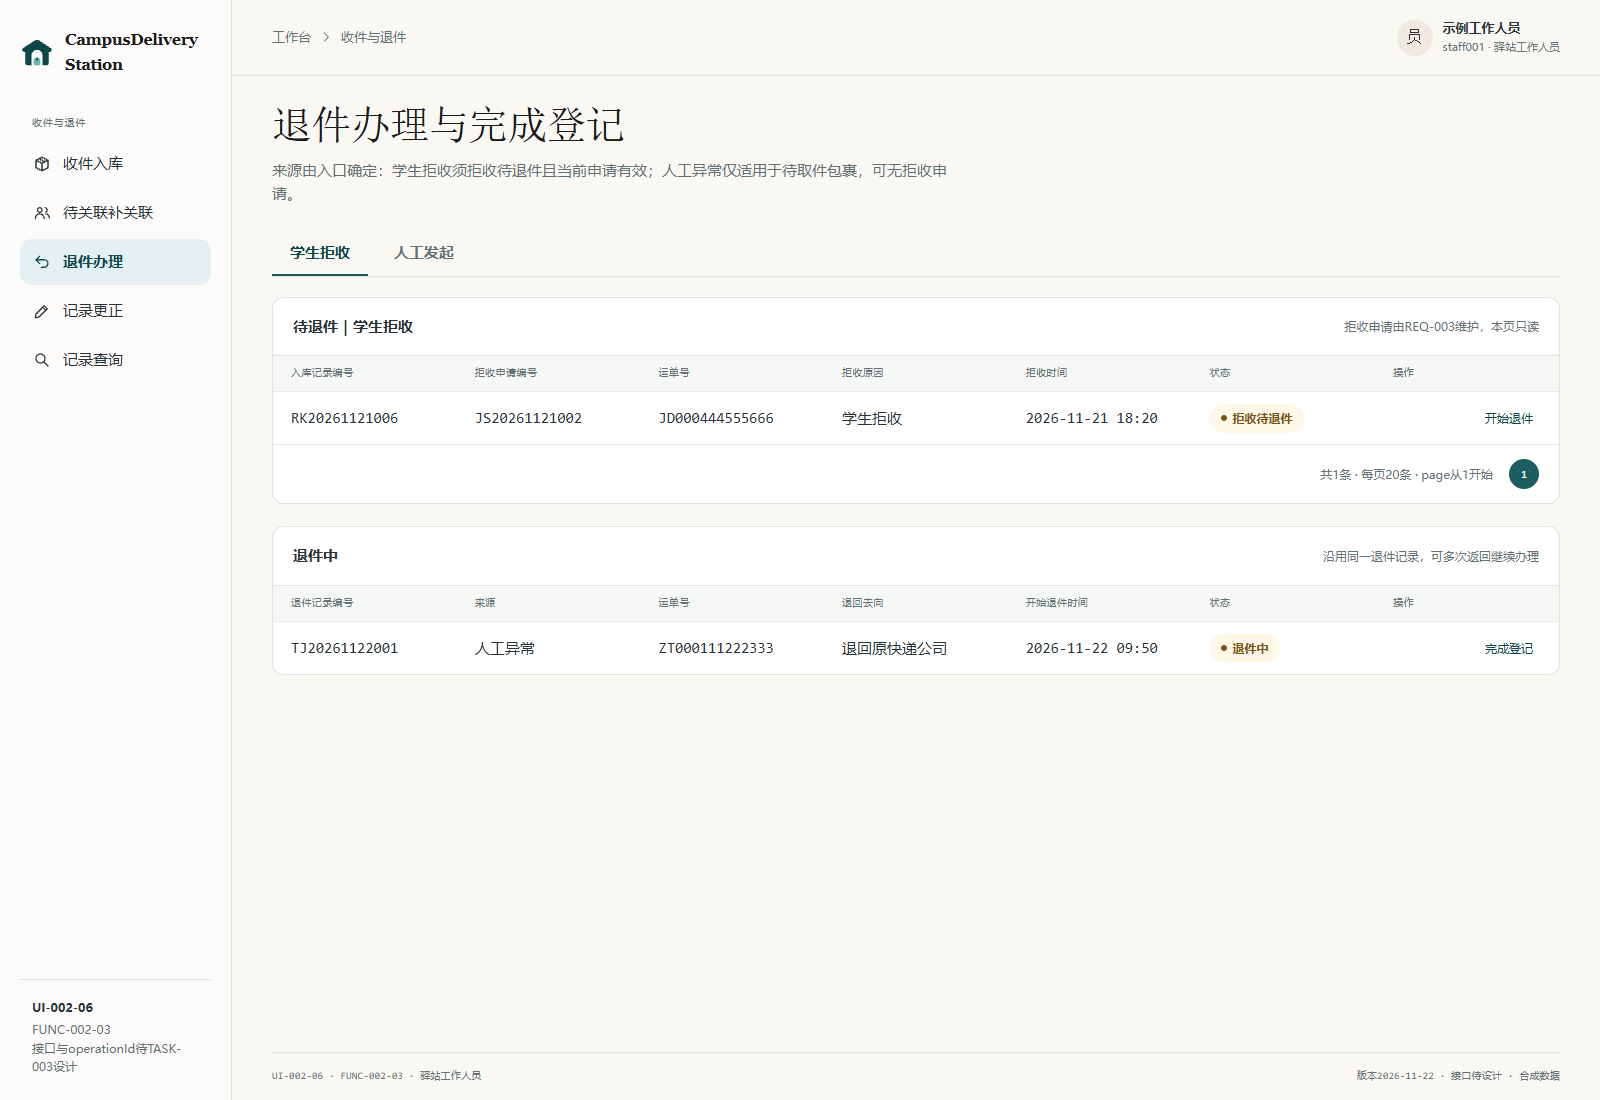
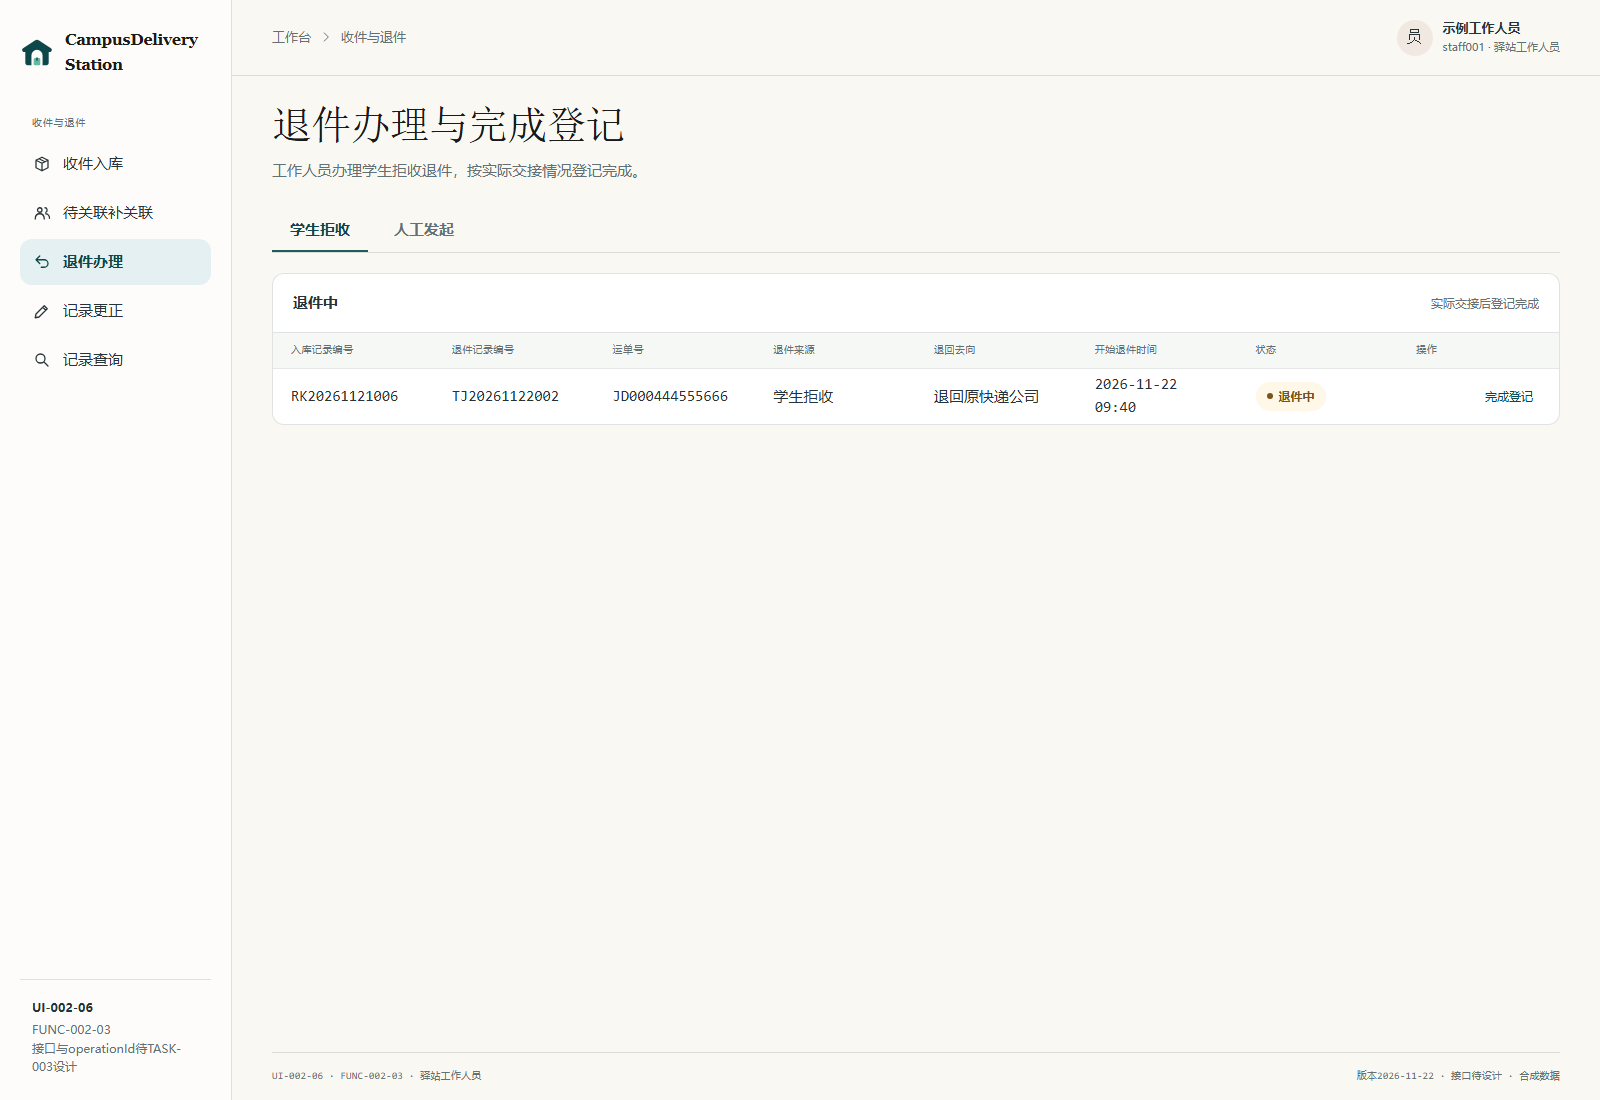
doc(prototype):补齐REQ-002学生拒收退件原型

diff --git a/docs/requirements/prototypes/任奕阳_REQ-002/prototype.js b/docs/requirements/prototypes/任奕阳_REQ-002/prototype.js
@@ -27,6 +27,10 @@ const locations = ["A-1", "A-2", "A-3", "B-1", "B-2", "B-3", "C-1", "C-2", "C-3"
 const student = { account: "00120001", name: "示例学生", phone: "13800000001" };
 const otherStudent = { account: "00120002", name: "示例学生乙", phone: "13900000009" };
 const intakeAccounts = [student, otherStudent];
+const returnDemo = {
+  recordId: "RK20261121006", refusalId: "JS20261121002", refusedAt: "2026-11-21 18:20",
+  returnId: "TJ20261122002", startedAt: "2026-11-22 09:40", finishedAt: "2026-11-22 10:30"
+};
 const intakeExample = {
   id: "RK20261122003", company: "圆通速递", tracking: "YT000555666777", receiver: student.name,
   phone: student.phone, location: "B-2", status: "待取件", account: student.account,
@@ -39,9 +43,8 @@ const initialRecords = [
     correction: { field: "存放位置名称", operator: "示例工作人员", at: "2026-11-22 09:30" }
   },
   {
-    id: "RK20261121006", company: "京东快递", tracking: "JD000444555666", receiver: student.name,
-    phone: student.phone, location: "B-1", status: "退件中", account: student.account, arrivedAt: "2026-11-21 16:02",
-    returnInfo: { id: "TJ20261122002", source: "学生拒收", reason: "学生拒收", destination: "退回原快递公司", startedAt: "2026-11-22 09:40" }
+    id: returnDemo.recordId, company: "京东快递", tracking: "JD000444555666", receiver: student.name,
+    phone: student.phone, location: "B-1", status: "拒收待退件", account: student.account, arrivedAt: "2026-11-21 16:02"
   },
   {
     id: "RK20261122002", company: "京东快递", tracking: "JD000987654321", receiver: student.name,
@@ -290,47 +293,50 @@ function linkingPage(mismatch) {
 }
 
 /* FUNC-002-03 退件 */
-function returnList() {
+function returnList(record) {
   return `<div class="table-scroll"><table class="data-table">
     <thead><tr><th>入库记录编号</th><th>拒收申请编号</th><th>运单号</th><th>拒收原因</th><th>拒收时间</th><th>状态</th><th>操作</th></tr></thead>
-    <tbody><tr><td class="mono">RK20261121006</td><td class="mono">JS20261121002</td><td class="mono">JD000444555666</td><td>学生拒收</td><td class="mono">2026-11-21 18:20</td><td><span class="status-badge warning">拒收待退件</span></td><td><div class="row-actions"><button class="button-text" type="button" data-route="return-start">开始退件</button></div></td></tr></tbody>
+    <tbody><tr><td class="mono">${record.id}</td><td class="mono">${returnDemo.refusalId}</td><td class="mono">${record.tracking}</td><td>学生拒收</td><td class="mono">${returnDemo.refusedAt}</td><td><span class="status-badge warning">${record.status}</span></td><td><div class="row-actions"><button class="button-text" type="button" data-route="return-start">开始退件</button></div></td></tr></tbody>
   </table></div>${pagination(1)}`;
 }
 
-function inReturnList(record) {
-  const returnInfo = record?.returnInfo ?? {
-    id: "TJ20261122001", source: "人工异常", destination: "退回原快递公司", startedAt: "2026-11-22 09:50"
-  };
-  const recordAttribute = record ? ` data-record-id="${record.id}"` : "";
+function returnProgressList(record) {
+  const { returnInfo } = record;
+  const finished = record.status === "已退件";
+  const lastCell = finished ? `<td class="mono">${returnInfo.finishedAt}</td>` :
+    `<td><div class="row-actions"><button class="button-text" type="button" data-action="finish-return" data-record-id="${record.id}">完成登记</button></div></td>`;
   return `<div class="table-scroll"><table class="data-table">
-    <thead><tr><th>退件记录编号</th><th>来源</th><th>运单号</th><th>退回去向</th><th>开始退件时间</th><th>状态</th><th>操作</th></tr></thead>
-    <tbody><tr><td class="mono">${returnInfo.id}</td><td>${returnInfo.source}</td><td class="mono">${escapeHtml(record?.tracking ?? "ZT000111222333")}</td>
-      <td>${returnInfo.destination}</td><td class="mono">${returnInfo.startedAt}</td><td><span class="status-badge warning">退件中</span></td>
-      <td><div class="row-actions"><button class="button-text" type="button" data-action="finish-return"${recordAttribute}>完成登记</button></div></td></tr></tbody>
+    <thead><tr><th>入库记录编号</th><th>退件记录编号</th><th>运单号</th><th>退件来源</th><th>退回去向</th><th>开始退件时间</th><th>状态</th><th>${finished ? "完成时间" : "操作"}</th></tr></thead>
+    <tbody><tr><td class="mono">${record.id}</td><td class="mono">${returnInfo.id}</td><td class="mono">${escapeHtml(record.tracking)}</td><td>${returnInfo.source}</td>
+      <td>${returnInfo.destination}</td><td class="mono">${returnInfo.startedAt}</td><td><span class="status-badge ${finished ? "neutral" : "warning"}">${record.status}</span></td>${lastCell}</tr></tbody>
   </table></div>`;
 }
 
 function returnsPage(record, requestedRecordId) {
   if (requestedRecordId) {
-    const canContinue = record?.status === "退件中" && record.returnInfo;
+    const returnInfo = record?.returnInfo;
     const back = `<button class="button button-secondary" type="button" data-route="${record ? `record-detail/${record.id}` : "records"}">${record ? "返回记录详情" : "返回记录查询"}</button>`;
-    return pageHeading(pages.returns, canContinue ? `继续办理入库记录${record.id}的退件。` : "该记录当前没有可继续办理的退件。", back) +
-      (canContinue ? `<section class="list-card"><div class="list-toolbar"><strong>退件中</strong></div>${inReturnList(record)}</section>` : "");
+    return pageHeading(pages.returns, returnInfo ? `入库记录${record.id}的退件办理。` : "该记录当前没有可继续办理的退件。", back) +
+      (returnInfo ? `<section class="list-card"><div class="list-toolbar"><strong>${record.status}</strong>${record.status === "退件中" ? '<span class="list-count">实际交接后登记完成</span>' : ""}</div>${returnProgressList(record)}</section>` : "");
   }
-  return pageHeading(pages.returns, "来源由入口确定：学生拒收须拒收待退件且当前申请有效；人工异常仅适用于待取件包裹，可无拒收申请。") +
+  const sample = findRecord(returnDemo.recordId);
+  const pending = sample.status === "拒收待退件";
+  const hint = pending ? "核对包裹实物和退件原因后开始办理" : sample.status === "退件中" ? "实际交接后登记完成" : "已记录退件完成时间";
+  const list = demoState === "normal" ? (pending ? returnList(sample) : returnProgressList(sample)) : listStateBlock("没有符合条件的退件记录。");
+  return pageHeading(pages.returns, "工作人员办理学生拒收退件，按实际交接情况登记完成。") +
     `<div class="tabs" role="tablist" aria-label="退件发起入口"><button class="tab" role="tab" aria-selected="true" type="button">学生拒收</button><button class="tab" role="tab" aria-selected="false" type="button" data-route="return-manual">人工发起</button></div>
-    <section class="list-card"><div class="list-toolbar"><strong>待退件｜学生拒收</strong><span class="list-count">拒收申请由REQ-003维护，本页只读</span></div>${demoState === "normal" ? returnList() : listStateBlock("没有符合条件的待退件包裹。")}</section>
-    <div style="height:22px"></div>
-    <section class="list-card"><div class="list-toolbar"><strong>退件中</strong><span class="list-count">沿用同一退件记录，可多次返回继续办理</span></div>${inReturnList()}</section>`;
+    <section class="list-card"><div class="list-toolbar"><strong>${sample.status}</strong><span class="list-count">${hint}</span></div>${list}</section>`;
 }
 
 function returnStartPage() {
-  const drawer = `<div class="overlay"></div><aside class="drawer" role="dialog" aria-modal="true" aria-labelledby="return-title">
-    <div class="drawer-header"><div><h2 id="return-title">开始退件</h2><span class="function-tag">入库记录RK20261121006（DATA-002-01）</span></div><button class="icon-button" type="button" data-route="returns" aria-label="关闭">${icon("close")}</button></div>
+  const record = findRecord(returnDemo.recordId);
+  if (record.status !== "拒收待退件") return returnsPage();
+  const drawer = `<div class="overlay"></div><aside class="drawer return-start-drawer" role="dialog" aria-modal="true" aria-labelledby="return-title">
+    <div class="drawer-header"><div><h2 id="return-title">开始退件</h2><span class="function-tag">入库记录${record.id}（DATA-002-01）</span></div><button class="icon-button" type="button" data-route="returns" aria-label="关闭">${icon("close")}</button></div>
     <div class="drawer-body">
-      <dl class="detail-grid"><div><dt>退件来源（DATA-002-29）</dt><dd>学生拒收 · 系统按入口确定</dd></div><div><dt>当前拒收申请（DATA-003-10）</dt><dd class="mono">JS20261121002</dd></div><div><dt>包裹状态（DATA-003-05）</dt><dd>拒收待退件</dd></div><div><dt>运单号</dt><dd class="mono">JD000444555666</dd></div></dl>
+      <dl class="detail-grid"><div><dt>退件来源（DATA-002-29）</dt><dd>学生拒收 · 系统按入口确定</dd></div><div><dt>当前拒收申请（DATA-003-10）</dt><dd class="mono">${returnDemo.refusalId}</dd></div><div><dt>包裹状态（DATA-003-05）</dt><dd>${record.status}</dd></div><div><dt>运单号</dt><dd class="mono">${record.tracking}</dd></div></dl>
       <div class="info-card warning"><p>办理前核对包裹实物、收件信息与退件原因；不一致时先按记录更正办理。开始退件后学生不可撤回。</p></div>
-      <form id="return-form" data-tracking="JD000444555666" novalidate>
+      <form id="return-form" data-record-id="${record.id}" data-tracking="${record.tracking}" novalidate>
         ${field("退件原因", "DATA-002-30 · 学生拒收来源默认学生拒收，可按实际改选", `<select name="reason" id="return-reason"><option>学生拒收</option><option>包装破损</option><option>面单信息不全或污损</option><option>错分错投</option><option>违禁品或无法投递</option><option>其他</option></select>`)}
         ${field("退回去向", "DATA-002-32 · 取值待P002-02评审", `<select name="destination"><option>退回原快递公司</option><option>退回寄件人</option></select>`)}
         <div class="field"><label for="return-note">退件原因说明</label><textarea id="return-note" placeholder="原因为“其他”时必填（DATA-002-31）"></textarea><span class="data-ref">原因为其他时必填</span></div>
@@ -418,7 +424,7 @@ function filteredRecords(filters) {
 
 function recordRows(entries) {
   return entries.map(record => {
-    const statusStyle = isRecordClosed(record) ? " neutral" : record.status === "退件中" ? " warning" : "";
+    const statusStyle = isRecordClosed(record) ? " neutral" : ["拒收待退件", "退件中"].includes(record.status) ? " warning" : "";
     return `<tr><td class="mono">${record.id}</td><td>${record.company}</td><td class="mono">${escapeHtml(record.tracking)}</td><td>${escapeHtml(record.receiver)}</td>
       <td class="mono">${record.phone}</td><td>${record.location}</td><td><span class="status-badge${statusStyle}">${record.status}</span></td>
       <td>${record.account ? "已关联" : "待关联"}</td><td class="mono">${record.arrivedAt}</td>
@@ -604,11 +610,23 @@ function handleLink(form) {
 }
 
 function handleReturn(form) {
-  const reason = form.elements.reason;
+  if (form.querySelector('[type="submit"]').disabled) return;
+  const record = findRecord(form.dataset.recordId);
+  if (form.dataset.recordId && record?.status !== "拒收待退件") return;
+  const { reason, destination } = form.elements;
   const note = form.querySelector("#return-note");
   if (reason.value === "其他" && !note.value.trim()) { setFieldError(note, "退件原因为其他时须填写说明。"); note.focus(); return; }
   setFieldError(note, "");
-  submitWithFeedback(form, () => { window.location.hash = "returns"; showToast(`运单号${form.dataset.tracking}已开始退件，包裹状态：退件中，学生端已暂停取件。`); });
+  const returnInfo = {
+    id: returnDemo.returnId, source: "学生拒收", reason: reason.value, destination: destination.value, startedAt: returnDemo.startedAt
+  };
+  submitWithFeedback(form, () => {
+    if (record) {
+      records[records.indexOf(record)] = { ...record, status: "退件中", returnInfo };
+    }
+    window.location.hash = "returns";
+    showToast(`运单号${form.dataset.tracking}已开始退件，包裹状态：退件中。`);
+  });
 }
 
 function handleCorrection(form) {
@@ -687,9 +705,12 @@ document.addEventListener("click", event => {
   }
   if (action === "open-link") window.location.hash = "linking";
   if (action === "finish-return") {
-    const selected = records.find(record => record.id === actionButton.dataset.recordId);
-    const prefix = selected ? `退件记录${selected.returnInfo.id}（运单号${selected.tracking}）` : "退件";
-    showToast(`${prefix}已完成登记，完成时间：2026-11-22 10:30，办理人：示例工作人员；重复提交不改写完成事实。`);
+    const record = findRecord(actionButton.dataset.recordId);
+    if (record?.status !== "退件中" || !record.returnInfo) return;
+    const returnInfo = { ...record.returnInfo, finishedAt: returnDemo.finishedAt };
+    records[records.indexOf(record)] = { ...record, status: "已退件", returnInfo };
+    render();
+    showToast(`退件记录${returnInfo.id}已完成登记。`);
   }
   if (action === "record-detail") {
     const detailRoute = currentRoute() === "records-admin" ? "records-admin" : "record-detail";
@@ -726,7 +747,7 @@ picker.addEventListener("change", () => { window.location.hash = picker.value; }
 document.getElementById("state-picker").addEventListener("change", event => { demoState = event.target.value; render(); });
 document.getElementById("reset-prototype").addEventListener("click", () => {
   demoState = "normal";
-  records.splice(initialRecords.length);
+  records.splice(0, records.length, ...initialRecords);
   recordSearches.clear();
   intakeDraft = undefined;
   if (window.location.hash === "#intake") render();

diff --git a/docs/requirements/prototypes/任奕阳_REQ-002/prototype.css b/docs/requirements/prototypes/任奕阳_REQ-002/prototype.css
@@ -205,7 +205,7 @@ h3 { margin-bottom: 8px; color: var(--ink); font-size: 16px; }
 .export .overlay { position: absolute; }
 .drawer { position: fixed; z-index: 70; top: 0; right: 0; bottom: 0; width: min(480px, 100vw); display: flex; flex-direction: column; background: var(--surface); border-left: 1px solid var(--line); }
 .export .drawer { position: absolute; }
-.record-detail-drawer { z-index: 90; }
+.record-detail-drawer, .return-start-drawer { z-index: 90; }
 .drawer-header { display: flex; align-items: flex-start; justify-content: space-between; gap: 16px; padding: 28px 28px 22px; border-bottom: 1px solid var(--line); }
 .drawer-header h2 { margin: 0 0 4px; }
 .drawer-body { padding: 26px 28px; overflow-y: auto; flex: 1; }

diff --git a/docs/management/team.md b/docs/management/team.md
@@ -51,6 +51,7 @@
 
 | 日期 | 关联任务 | 关键进展 |
 | --- | --- | --- |
+| 2026-11-22 | TASK-002 | 按杨振煜确认，用同一条合成包裹演示REQ-002学生拒收退件的“拒收待退件→退件中→已退件”。Edge核对工作人员的开始和完成入口、管理员只读、编号与状态一致及三档视口，更新[退件原型说明和相关截图](../requirements/prototypes/任奕阳_REQ-002/REQ-002_界面原型说明.md#页面与功能对应)。TASK-002继续进行。 |
 | 2026-11-22 | TASK-002、TASK-011 | 按杨振煜确认修订REQ-002收件退件查询。工作人员和管理员可按状态、关联状态、到站日期及关键词组合筛选，详情返回保留查询条件和页码。Edge复测无匹配、非法条件、日期边界、两种角色和三档视口，并以23条合成匹配记录验证分页。重导UI-002-10及UI-002-11。结果见[原型说明](../requirements/prototypes/任奕阳_REQ-002/REQ-002_界面原型说明.md#打开方式与已执行检查)。TASK-002继续进行。 |
 | 2026-11-22 | TASK-002、TASK-011 | 按杨振煜确认修订REQ-002入库演示。成功提示、取件码标签和最近入库清单引用同一笔登记，手机号未匹配唯一账号时显示待关联，继续入库保留公司和位置。Edge复测账号匹配分支、查重与重复提交、连续入库和三档视口，重导UI-002-01～03。结果见[原型说明](../requirements/prototypes/任奕阳_REQ-002/REQ-002_界面原型说明.md#打开方式与已执行检查)。TASK-002继续进行。 |
 | 2026-11-22 | TASK-002、TASK-011 | 按杨振煜确认修订REQ-002查询列表与详情绑定。工作人员和管理员均按入库记录编号打开对应详情，工作人员的更正、继续退件和追加说明入口沿用所选记录，管理员只读。Edge复测两种角色各三条记录、办理入口和三档视口，重导UI-002-09及UI-002-11。结果见[原型说明](../requirements/prototypes/任奕阳_REQ-002/REQ-002_界面原型说明.md#打开方式与已执行检查)。TASK-002继续进行，后续逐项核对审核发现。 |
